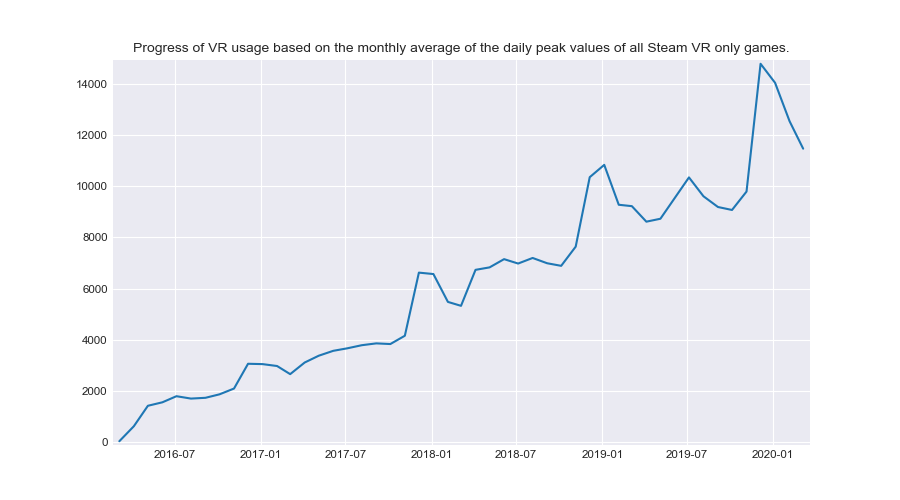
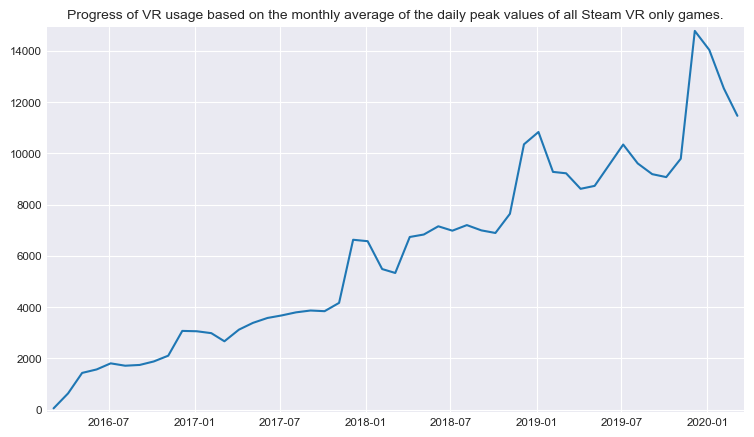
update

diff --git a/scripts/create_charts.py b/scripts/create_charts.py
@@ -29,7 +29,7 @@ def peak_players_online(conn):
     plt.plot_date(dates, values, '-')
     plt.title("Progress of VR usage based on the monthly average of the daily peak values of all Steam VR only games.")
     plt.grid(True)
-    plt.savefig('../images/vrgames_avg_peak_over_time.png')
+    plt.savefig('../images/vrgames_avg_peak_over_time.png', bbox_inches='tight')
 
 
 def change_game_title(games):
@@ -77,7 +77,7 @@ def top10_2020(conn):
     sns.despine(left=True, bottom=True)
 
     # save plot
-    plt.savefig('../images/vrgames_top10_2020.png')
+    plt.savefig('../images/vrgames_top10_2020.png', bbox_inches='tight')
 
 
 def main():
